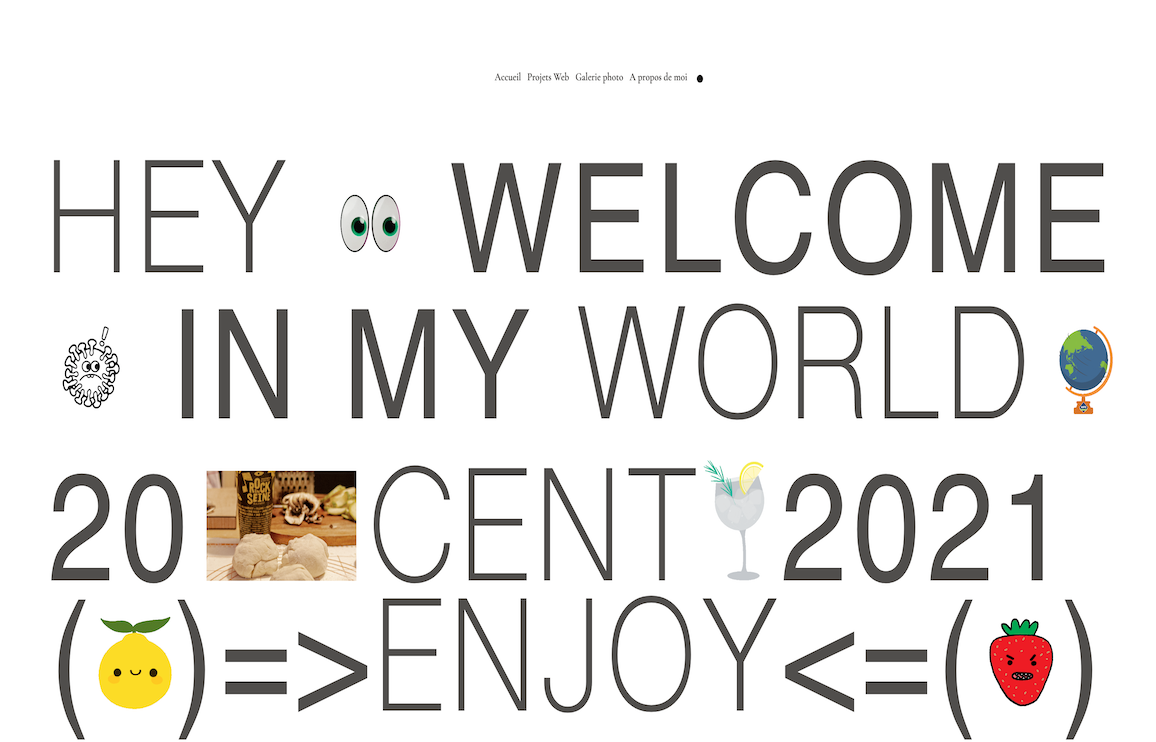
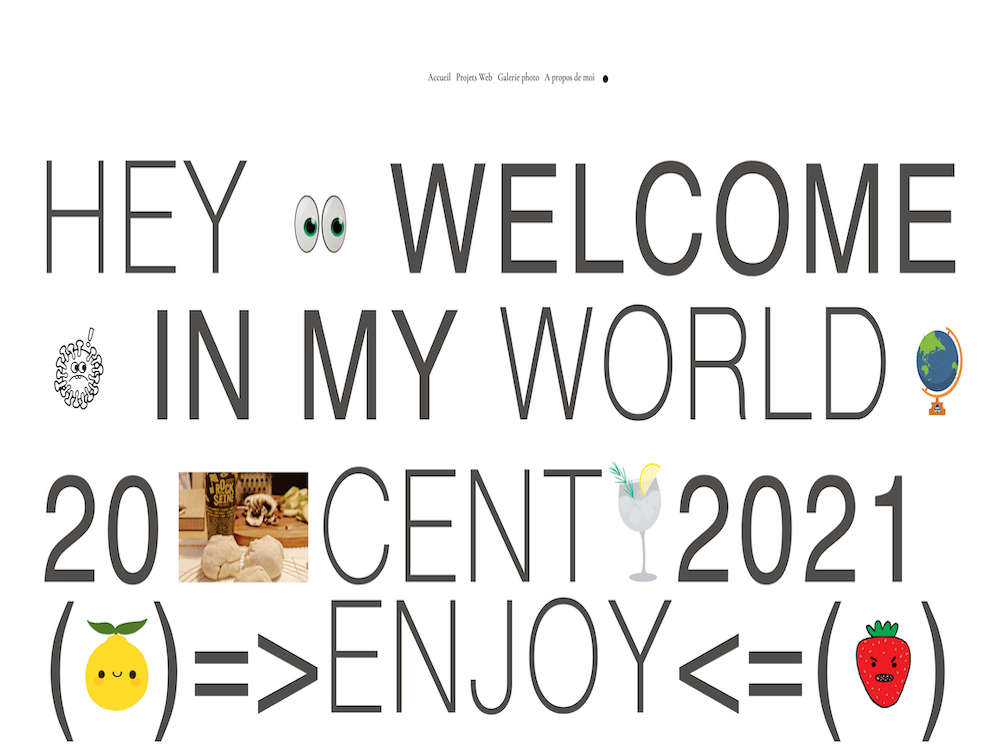
resoinsive OK

diff --git a/pages/projet/index.vue b/pages/projet/index.vue
@@ -2,32 +2,34 @@
   <div>
     <div class='transition '></div>
     <div class=' smooth-scroll-wrapper '>
-      <div CLASS='projets'>
-        <article class='case p-0 m-0 f-100 b-0'>
+      <div class='projets'>
+        <article class='case  p-0 m-0 f-100 b-0'>
           <div class='separator p-0 m-0 f-100 b-0'>
             <span class='separator__year'>2021</span>
             <span class='separator__line line-1'></span>
           </div>
           <div class='card container p-0 m-0 f-100 b-0'>
             <div class='scroll-card'>
-              <h2 class='name'>Portfolio V2</h2>
-              <h3 class='text'>
-              </h3>
-              <h3 class='text'> Deuxième version de mon portfolio comprenant un nouveau design, une galerie photo, la
-                gestion de la couleur du thème, plusieurs animations originales.
-              </h3>
-              <p class='text'>Technologies utilisées : HTML/SCSS, Javascript, GSAP, ScrollMagic, MediumZoom</p>
-              <a class='button-to-website' href='https://www.vincent-orru.link/' target='_blank'>Voir le site</a>
+              <div class='text-content-xs'>
+                <h2 class='name'>Portfolio V2</h2>
+                <h3 class='text'>
+                </h3>
+                <h3 class='text'> Deuxième version de mon portfolio comprenant un nouveau design, une galerie photo, la
+                  gestion de la couleur du thème, plusieurs animations originales.
+                </h3>
+                <p class='text'>Technologies utilisées : HTML/SCSS, Javascript, GSAP, ScrollMagic, MediumZoom, Déploiement sous Eroku</p>
+                <a class='button-to-website' href='https://www.vincent-orru.link/' target='_blank'>Voir le site</a>
+              </div>
             </div>
             <div class='img-project '>
-              <img src='~/assets/projects/portfolioV2-1.png' class='img-projets portfolioV2-2 size-1'
+              <img src='~/assets/projects/portfolioV2-1.png' class='img-projets portfolioV2-1 size-1'
                    alt='portfolioV2-1'>
               <img src='~/assets/projects/portfolioV2-2.png' class='img-projets portfolioV2-2 size-2'
                    alt='portfolioV2-2'>
             </div>
           </div>
         </article>
-        <article class='case  p-0 m-0 f-100 b-0'>
+        <article id='article-4' class='case  p-0 m-0 f-100 b-0'>
           <div class='separator p-0 m-0 f-100 b-0'>
             <span class='separator__year'>2021</span>
             <span class='separator__line line-1'></span>
@@ -42,7 +44,6 @@
                   The Movie Database, Gestion des CRUD, upload image, possibilité de filtrer les données avec critères
                   de recherches.
                 </h3>
-
                 <p class='text'>Technologies utilisées : PHP Symfony, HTML/CSS, Twig ,MySQL, Doctrine, Bootstrap,
                   Apache. </p>
                 <a class='button-to-website' href='https://github.com/VinzOo93/gestionDVD' target='_blank'>Git clone</a>
@@ -54,7 +55,7 @@
             </div>
           </div>
         </article>
-        <article class='case p-0 m-0 f-100 b-0'>
+        <article id='article-3' class='case p-0 m-0 f-100 b-0 hidden'>
           <div class='separator p-0 m-0 f-100 b-0'>
             <span class='separator__year'>2020</span>
             <span class='separator__line line-1'></span>
@@ -64,7 +65,7 @@
               <div class='text-content-xs'>
                 <h2 class='name'>Comparateur</h2>
                 <h3 class='text'>Intégration et déploiement d’un comparateur de produits responsive en AJAX sous
-                  PHP Symfony avec accès admin pour gestion des CRUD.
+                  PHP Symfony avec accès admin pour la gestion des CRUD.
                 </h3>
 
                 <p class='text'>Technologies utilisées : PHP Symfony, Javascript, Bootstrap, Twig, MySQL, Doctrine,
@@ -73,7 +74,7 @@
                   site</a>
               </div>
             </div>
-            <div class='img-project '>
+            <div id='article-2' class='img-project'>
               <img src='~/assets/projects/comparateur-1.png' class='img-projets comparateur-1 size-1'
                    alt='comparateur-1'>
               <img src='~/assets/projects/comparateur-2.png' class='img-projets comparateur-2 size-2'
@@ -81,7 +82,7 @@
             </div>
           </div>
         </article>
-        <article class='case p-0 m-0 f-100 b-0'>
+        <article id='article-1' class='case p-0 m-0 f-100 b-0 hidden'>
           <div class='separator p-0 m-0 f-100 b-0'>
             <span class='separator__year'>2020</span>
             <span class='separator__line line-1'></span>
@@ -92,7 +93,7 @@
                 <h2 class='name'>Portfolio V1</h2>
                 <h3 class='text'>
                 </h3>
-                <h3 class='text'> Premier portfolio présantant mon CV pour m'éxercer aux fondamentaux du HTML/CSS et
+                <h3 class='text'> Premier portfolio présentant mon CV afin de m'éxercer aux fondamentaux du HTML/CSS et
                   Javascript (ceci n'est pas mon CV à jour).
                 </h3>
 
@@ -125,6 +126,10 @@ export default {
       const transition = document.querySelector('.transition')
       const projets = document.querySelector('.projets')
       const line = document.querySelectorAll('.line-1')
+      const button = document.querySelectorAll('.button-to-website')
+      const mouseCursor = document.querySelector(".cursor")
+
+
 
       gsap.timeline(100)
         .fromTo(transition, {
@@ -152,7 +157,7 @@ export default {
 
       const speed = 0.10
 
-      var offset = 0
+      let offset = 0
 
       body.style.height = Math.floor(height) + 'px'
 
@@ -162,13 +167,32 @@ export default {
         scrollWrap.style.transform = 'translateY(-' + offset + 'px) translate(0)'
 
         cards.forEach(card => {
-          card.style.transform = 'translateY(-' + offset / 10 + 'px) translate(0)'
+          card.style.transform = 'translateY(-' + offset / 15 + 'px) translate(0)'
         })
 
         requestAnimationFrame(smoothScroll)
       }
-
       smoothScroll()
+  const  scene = this.$scrollmagic.scene({
+        triggerElement: "#article-2",
+        triggerHook: 0.3,
+   })
+      .setTween(".case", {opacity: 1, duration: 0.25})
+      this.$scrollmagic.addScene(scene)
+
+      button.forEach( b => {
+        b.addEventListener("mouseover", () => {
+          mouseCursor.classList.add("link-grow")
+
+          b.addEventListener("mouseleave", () => {
+            mouseCursor.classList.remove("link-grow")
+          })
+        })
+      })
+
+
+
+
     }
 
 
@@ -180,14 +204,17 @@ export default {
 
 @media only screen and  (max-width: 768px) {
 
+
+
   .case {
-    margin-top: 20% !important;
+    margin-top: 30% !important;
     flex-direction: column-reverse;
     align-items: flex-start;
     justify-content: center;
   }
+
   .text-content-xs {
-    margin-top: 20% !important;
+    padding-top: 125%!important;
   }
 
   .name {
@@ -196,8 +223,13 @@ export default {
   }
 
   .img-project {
-    width: 70% !important;
-    left: 20% !important;
+    width: 60% !important;
+    top : 20% !important;
+    left: 10% !important;
+  }
+
+  .text {
+    width: 100% !important;
   }
 
 }
@@ -212,6 +244,8 @@ article {
   vertical-align: baseline;
 }
 
+
+
 .case {
   position: relative;
   display: flex;
@@ -220,6 +254,10 @@ article {
   align-items: center;
   justify-content: space-between;
   padding: 12.5rem 0;
+}
+
+.case.hidden {
+  opacity: 0;
 }
 
 .separator {

diff --git a/pages/index.vue b/pages/index.vue
@@ -81,7 +81,7 @@
     </section>
     <section id="home-scroll-1">
       <div class="recipe d-flex justify-content-center scroll-text-1 xs-reveal">
-        <p class="text-recipe p-0 m-0">Tout d"abord, il nous faut de le farine, de l"eau 💧, un peu de sel, de la
+        <p class="text-recipe p-0 m-0">Tout d'abord, il nous faut de le farine, de l'eau 💧, un peu de sel, de la
           levure,
           de
           l'huile d"olive, de la volonté et de la pérséverance 🏃🏽... Une fois le tout mélangé par ordre de priorités,
@@ -101,8 +101,7 @@
           De la passion ! C'est grâce à elle que l'on surpasse ses limites dans toute l'étendue de notre créativité.
           Elle nous pousse,
           elle nous permet de partager et de transmettre. Mais surtout d'innover dans le but de créer quelque chose
-          d'authentique. Selon moi, la passion donne du sens, elle est universelle,
-          sans la passion la satisfaction n'éxiste.
+          d'authentique. Selon moi, la passion donne du sens, elle est universelle.
         </p>
       </div>
     </section>
@@ -342,7 +341,7 @@ export default {
           })
         this.$scrollmagic.addScene(scene14)
         const scene15 = this.$scrollmagic.scene({
-          triggerHook: 0.3,
+          triggerHook: 0.4,
           triggerElement: "#pizza3",
           duration: "90%"
         })
@@ -611,15 +610,11 @@ export default {
   .container {
     position: relative;
   }
-
-
   .drawing-monkey {
     width: 7.222222222vw;
     bottom: auto;
 
   }
-
-
   .drawing-monkey {
     width: 7.222222222vw;
     bottom: auto;
@@ -783,7 +778,6 @@ img {
   image-rendering: auto;
 }
 
-
 .rock {
   margin-left: 20px;
   margin-right: 20px;
@@ -832,8 +826,6 @@ p .customFont {
   line-height: 1;
 
 }
-
-
 section {
   display: block;
 }

diff --git a/layouts/default.vue b/layouts/default.vue
@@ -31,7 +31,6 @@ body {
 
 
 * {
-  scroll-behavior: smooth;
   font-family: "Cormorant Garamond", serif;
   text-decoration: none;
   color: #504e4c;
